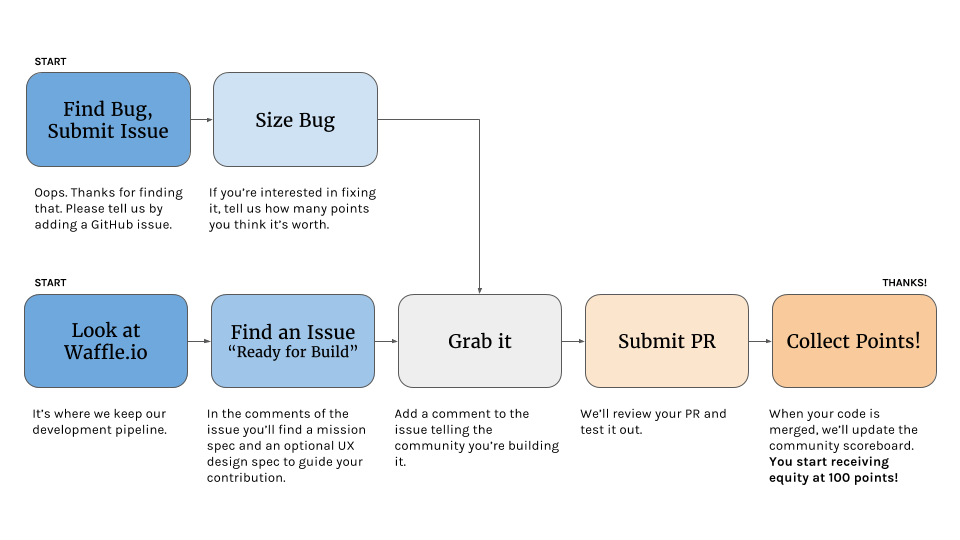
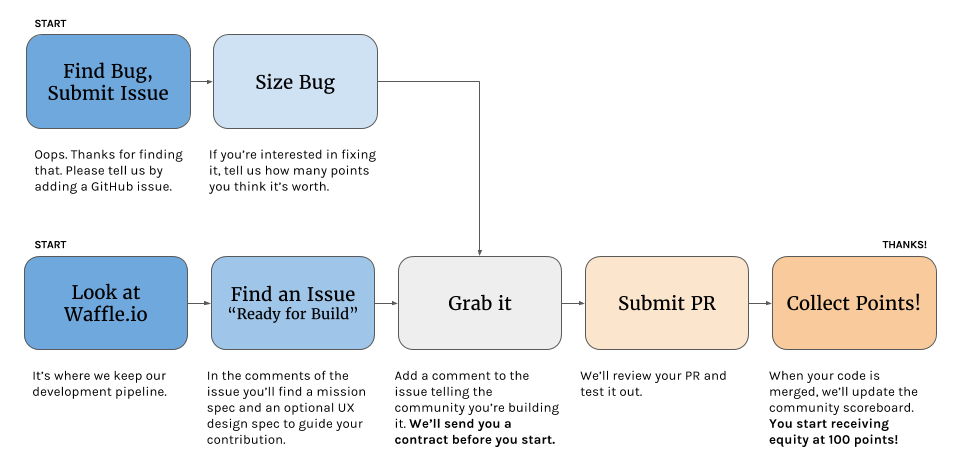
Updated CONTRIBUTING.md, final edits before merge
Mostly clarifications. Also moved some sctions around.

diff --git a/CONTRIBUTING.md b/CONTRIBUTING.md
@@ -12,11 +12,13 @@ workplace is to support individuals and teams to:
 * See and celebrate progress.
 
 We’re a young organization, and we won’t be able to develop this software
-and realize this vision without your help.
+and realize this vision without your help. Whether you’re a designer or a
+developer, we could use a hand.
 
 However, we also believe that contributing to Action _isn’t_ its own reward.
-That’s why we’re offering equity compensation for designers and coders who
-contribute to Action. We were influenced by
+That’s why we’re offering equity compensation for qualifying designers
+and coders who sign a [lightweight contract](https://goo.gl/MmR74i)
+and contribute to Action. We were influenced by
 [18F’s Open Source Micro-Purchasing model](https://18f.gsa.gov/2015/10/13/open-source-micropurchasing/).
 
 Here’s how contributing to Action works.
@@ -24,11 +26,10 @@ Here’s how contributing to Action works.
 
 # Find an Issue
 
-Whether you’re a designer or a developer, we could use a hand.
-
-All of the development work for Action is captured as an issue on Github
-issues. To see which issues are available for you to help with, have a look
-at our [waffle.io board](https://waffle.io/ParabolInc/action).
+All of the design and development work for Action is captured as GitHub issues.
+They are tagged and arranged on our
+[waffle.io board](https://waffle.io/ParabolInc/action). To see where you can
+jump in, begin by having a look at the issues in the following stages:
 
 All Issues begin in our *Backlog*. Consider these a list of things we _could_
 do but aren’t actively looking to develop yet. Issues ready for contribution
@@ -38,7 +39,8 @@ appear in *Needs Design Spec* or *Ready for Build*.
 
 ![Contributing to Action - Designers](./docs/images/ContributingToActionDesigners.png)
 
-Whether helping us develop a new spinner or rethinking the UX of our on-boarding flow, we could use your talent.
+Whether its helping us to develop a new spinner or rethinking the UX of our
+on-boarding flow, we could use your talent!
 
 Here’s how to get involved:
 
@@ -48,17 +50,20 @@ Here’s how to get involved:
 2. Click on the issue number and read the comments. Inside you’ll find a
    link to the issue’s *mission spec* which details the work to be done.
 
-3. If you’re interested in taking the mission, add a comment to it and
+3. If you’re interested in taking on the mission, add a comment to it and
    tell us how many points you’re interested in doing the job for
    (see: [Compensation](#compensation)). We’ll acknowledge that the issue
-   now belongs to you and move it to the *Designing* column.
+   now belongs to you and send you a lightweight contract to sign.
 
-4. Contribute your work along the guidelines in the mission spec. Once you’re
-   done add a comment to the issue. We’ll look over your work and provide
+4. Once you've signed our contract, we'll move the issue to the *Designing*
+   column.
+
+5. Contribute your work along the guidelines in the mission spec. Once you’re
+   done add a comment to the issue. We’ll review your hard work and provide
    feedback.
 
-5. Once any feedback is addressed, we’ll assign you points to compensate you
-   for your work, and grant you our eternal thanks!
+6. Once any feedback is addressed, we’ll assign you points to compensate you
+   for your work, and give you our eternal thanks!
 
 ## If you’re a coder
 
@@ -80,18 +85,25 @@ Contributing is easy:
 
 3. If you’re interested in taking the mission, add a comment to it and
    tell us how many points you’re interested in doing the job for
-   (see: [Compensation](#compensation)). We’ll acknowledge that the issue
-   now belongs to you and move it to the *Building* column.
+   (see: [Compensation](#compensation)). We'll send you a lightweight
+   contract to review and sign.
 
-4. Create a branch named similarly to `feature-name-#issue` where `#issue`
-   is the GitHub issue number (e.g. `timer-feature-#42`).
+4. Once signed, we’ll acknowledge the issue now belongs to you and move
+   it to the *Building* column on [Action’s waffle.io board](https://waffle.io/ParabolInc/action).
 
-5. Contribute your work along the guidelines provided in the spec documents.
-   Once you’re done, add a comment to the issue. We’ll look over your work,
+5. Create a branch named similarly to `feature-name-#issue` where `#issue`
+   is the GitHub issue number (e.g. `timer-feature-#42`). This keeps our
+   waffle board happy.
+
+6. Contribute your work along the guidelines provided in the spec documents.
+   Once you’re done, add a comment to the issue. We’ll review your work,
    and provide feedback.
 
-6. Once any feedback is addressed, we’ll assign you points to compensate you
+7. Once any feedback is addressed, we’ll assign you points to compensate you
    for your work, and grant you our eternal thanks!
+
+If you don't see an issue you're interested in, don't be discouraged. Write
+your own!
 
 ### If it’s a bug
 
@@ -101,23 +113,51 @@ Contributing is easy:
 2. If you’re interested in fixing it, tell us how many points you think it’s
    worth (see: [Compensation](#compensation)).
 
-3. Add a comment to the issue telling us that you’ve got it, we’ll
-   acknowledge it by moving the issue to the *Building* column on
+3. Add a comment to the issue telling us that you’ve got it and we’ll
+   send you a lightweight contract to review and sign.
+
+4. Once signed, we’ll acknowledge the issue now belongs to you and move
+   it to the *Building* column on
    [Action’s waffle.io board](https://waffle.io/ParabolInc/action).
 
-4. Create a branch named similarly to `bugfix-description-#issue` where
+5. Create a branch named similarly to `bugfix-description-#issue` where
    `#issue` is the GitHub issue number (e.g. `bugfix-authentication-#43`).
 
-4. Submit the PR with the fix.
+6. Submit the PR with the fix.
 
-5. Once any feedback is addressed, we’ll assign you points to compensate you
+7. Once any feedback is addressed, we’ll assign you points to compensate you
    for your work, and grant you our eternal thanks!
 
 
-# Points and sizes
+# Compensation
+
+For giving us a hand and helping the broader Action community, your
+qualifying contributions may be converted into equity in Parabol Inc. Here’s
+how it works:
+
+1. When an issue is merged into the
+   [Parabol Inc Action Repository](https://github.com/ParabolInc/action) by
+   one of the project maintainers, we’ll tally up the points for your work.
+   **Every merged issue scores 10 points + its size.**
+
+2. We’ll add a row to the
+   [Parabol Action Contributors Scoreboard](https://docs.google.com/spreadsheets/d/1V1KZJn6oKFsqrYwqr430rO3hkIkekSY7oYFzX3cVty4).
+   If you’re working as a team, we’ll divide the points among you equally
+   unless your team has requested an alternate
+   distribution in the issue comments.
+
+3. Once you’ve accumulated more than 100 points, we'll put an Options Grant
+   proposal before our Board of Directors to convert your points to options
+   in Parabol Inc. (see: [Conversion rate](#conversion-rate)) and grant
+   these options to you (subject to board approval). The vesting clock
+   will be backdated to the date we received a signature on the consulting
+   contract for your first mission.
+
+
+## Points and sizes
 
 Before you begin working on an issue, you size it. Most issues will have a
-*swag* sizing from one of the Action maintainers, but it’s up to you to
+*SWAG* sizing from one of the Action maintainers, but it’s up to you to
 adjust it to what you think is fair.
 
 |  Points  | Individual *or* team effort required |
@@ -132,59 +172,25 @@ adjust it to what you think is fair.
 |    40    | Four to eight weeks                  |
 |    100   | Too big! Let’s break it down…        |
 
-
-# Compensation
-
-For giving us a hand and helping the broader Action community your
-contributions can be converted into equity in Parabol Inc. Here’s how it
-works:
-
-1. When an issue is merged into the
-   [Parabol Inc Action Repository](https://github.com/ParabolInc/action) by
-   one of the project maintainers, we’ll tally up the points for your work.
-   **Every merged issue scores 10 points + its size.**
-
-2. We’ll add a row to the
-   [Parabol Action Contributors Scoreboard](https://docs.google.com/spreadsheets/d/1V1KZJn6oKFsqrYwqr430rO3hkIkekSY7oYFzX3cVty4).
-   If you’re working as a team, we’ll divide the points among you equally
-   unless your team has requested an alternate
-   distribution in the issue comments.
-
-3. Once you’ve accumulated more than 100 points, we’ll send you an advisory
-   agreement offering to convert your points to options in Parabol Inc.
-   (see: [Conversion rate](#conversion-rate)). The vesting clock will be
-   backdated to the date your *first* pull request was merged into the Action
-   repository.
-
-4. Once we’ve received your signed advisory agreement, we’ll issue you options
-   for equity in Parabol Inc. along their vesting schedule. If you continue to
-   accrue points by contributing, we’ll amend your advisory agreement no
-   less frequently than once per quarter.
-
 ## Conversion rate
 
 At present, 100 points convert to options for 10,000 shares in Parabol Inc.
 With 10,000,000 shares outstanding, that’s 0.1% of the company.
 
 We currently will reevaluate this conversion rate once per calendar quarter
-during our board meeting.
-
-## Questions
-
-If you’ve got questions, please don’t hesitate to reach out. You can
-always reach us at [love@parabol.co](mailto:love@parabol.co).
+at our board meeting.
 
 
 # Mission specs
 
 Mission specs are brief definitions of design or engineering work. They
-answer a few vital questions to frame in the job to be done including:
+answer a few vital questions to frame in the work to be done, including:
 
   * Why is this work important?
   * Which user(s) does it serve?
   * What’s the primary journey or experience?
   * Which skills are needed to do the work?
-  * What quantitative and qualitative metrics can we measure?
+  * How can we measure if the work is successful?
   * How many points do we think the work is worth?
 
 The official Action mission template document can be found
@@ -194,7 +200,8 @@ The official Action mission template document can be found
 
 Some GitHub issues require a design spec in addition to a mission spec.
 Design specs are needed when a particular mission is complicated enough
-that a more in-depth written description, series of diagrams, or prototype is necessary to communicate intent.
+that a more in-depth written description, series of diagrams, or prototype is
+necessary to communicate intent.
 
 There are no specific requirements for how to create a design, but some
 examples we like are:
@@ -215,8 +222,14 @@ feedback.
 
 # Community
 
-Questions? Want to collaborate? Come join us on our Slack community.
+Want to collaborate? Join us on our Slack community!
 
 [![Slack Status](http://slackin.parabol.co/badge.svg)](http://slackin.parabol.co/)
 
 Sign up at http://slackin.parabol.co/.
+
+## Questions
+
+If you’ve got questions you'd like to inquire about privately, please don’t
+hesitate to reach out. You can reach us at
+[love@parabol.co](mailto:love@parabol.co).
